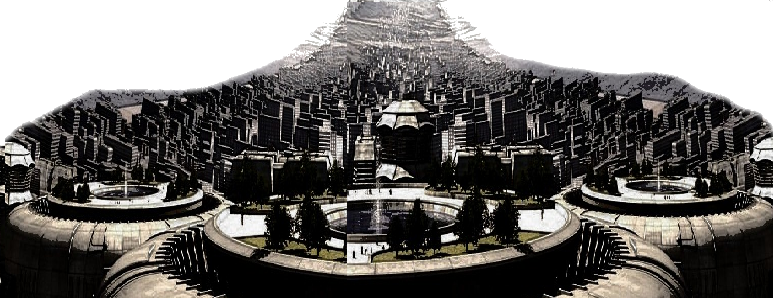
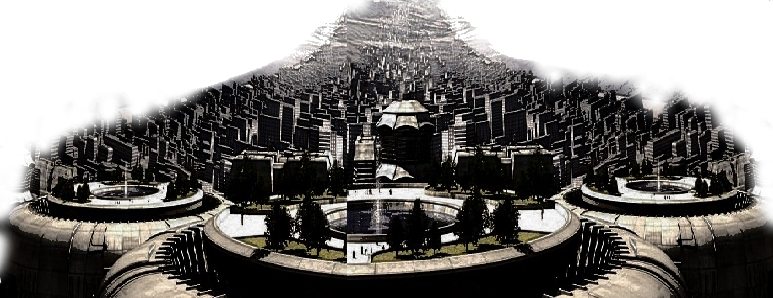
ㅁ

diff --git a/stage01.js b/stage01.js
@@ -2205,7 +2205,7 @@ function game_background(){
 
             //지면 땅
             //Context3.globalAlpha = 0.2;
-            Context3.globalAlpha = 0.5;
+            Context3.globalAlpha = 0.8;
             if (parseInt(gameTime/(600-Pspeed*100)) % 3 == 0){
                 Context3.drawImage(groundImage,theCanvas.clientWidth / 2  - parseInt(cityEnd_size/2) + cityEnd_x - j*2 - 10,  20 + theCanvas.clientHeight / 5  + j + random05  + cityEnd_y, 1 * random01 + j*4 ,20 * random03)
             }else if(parseInt(gameTime/(600-Pspeed*100)) % 3 == 1){
